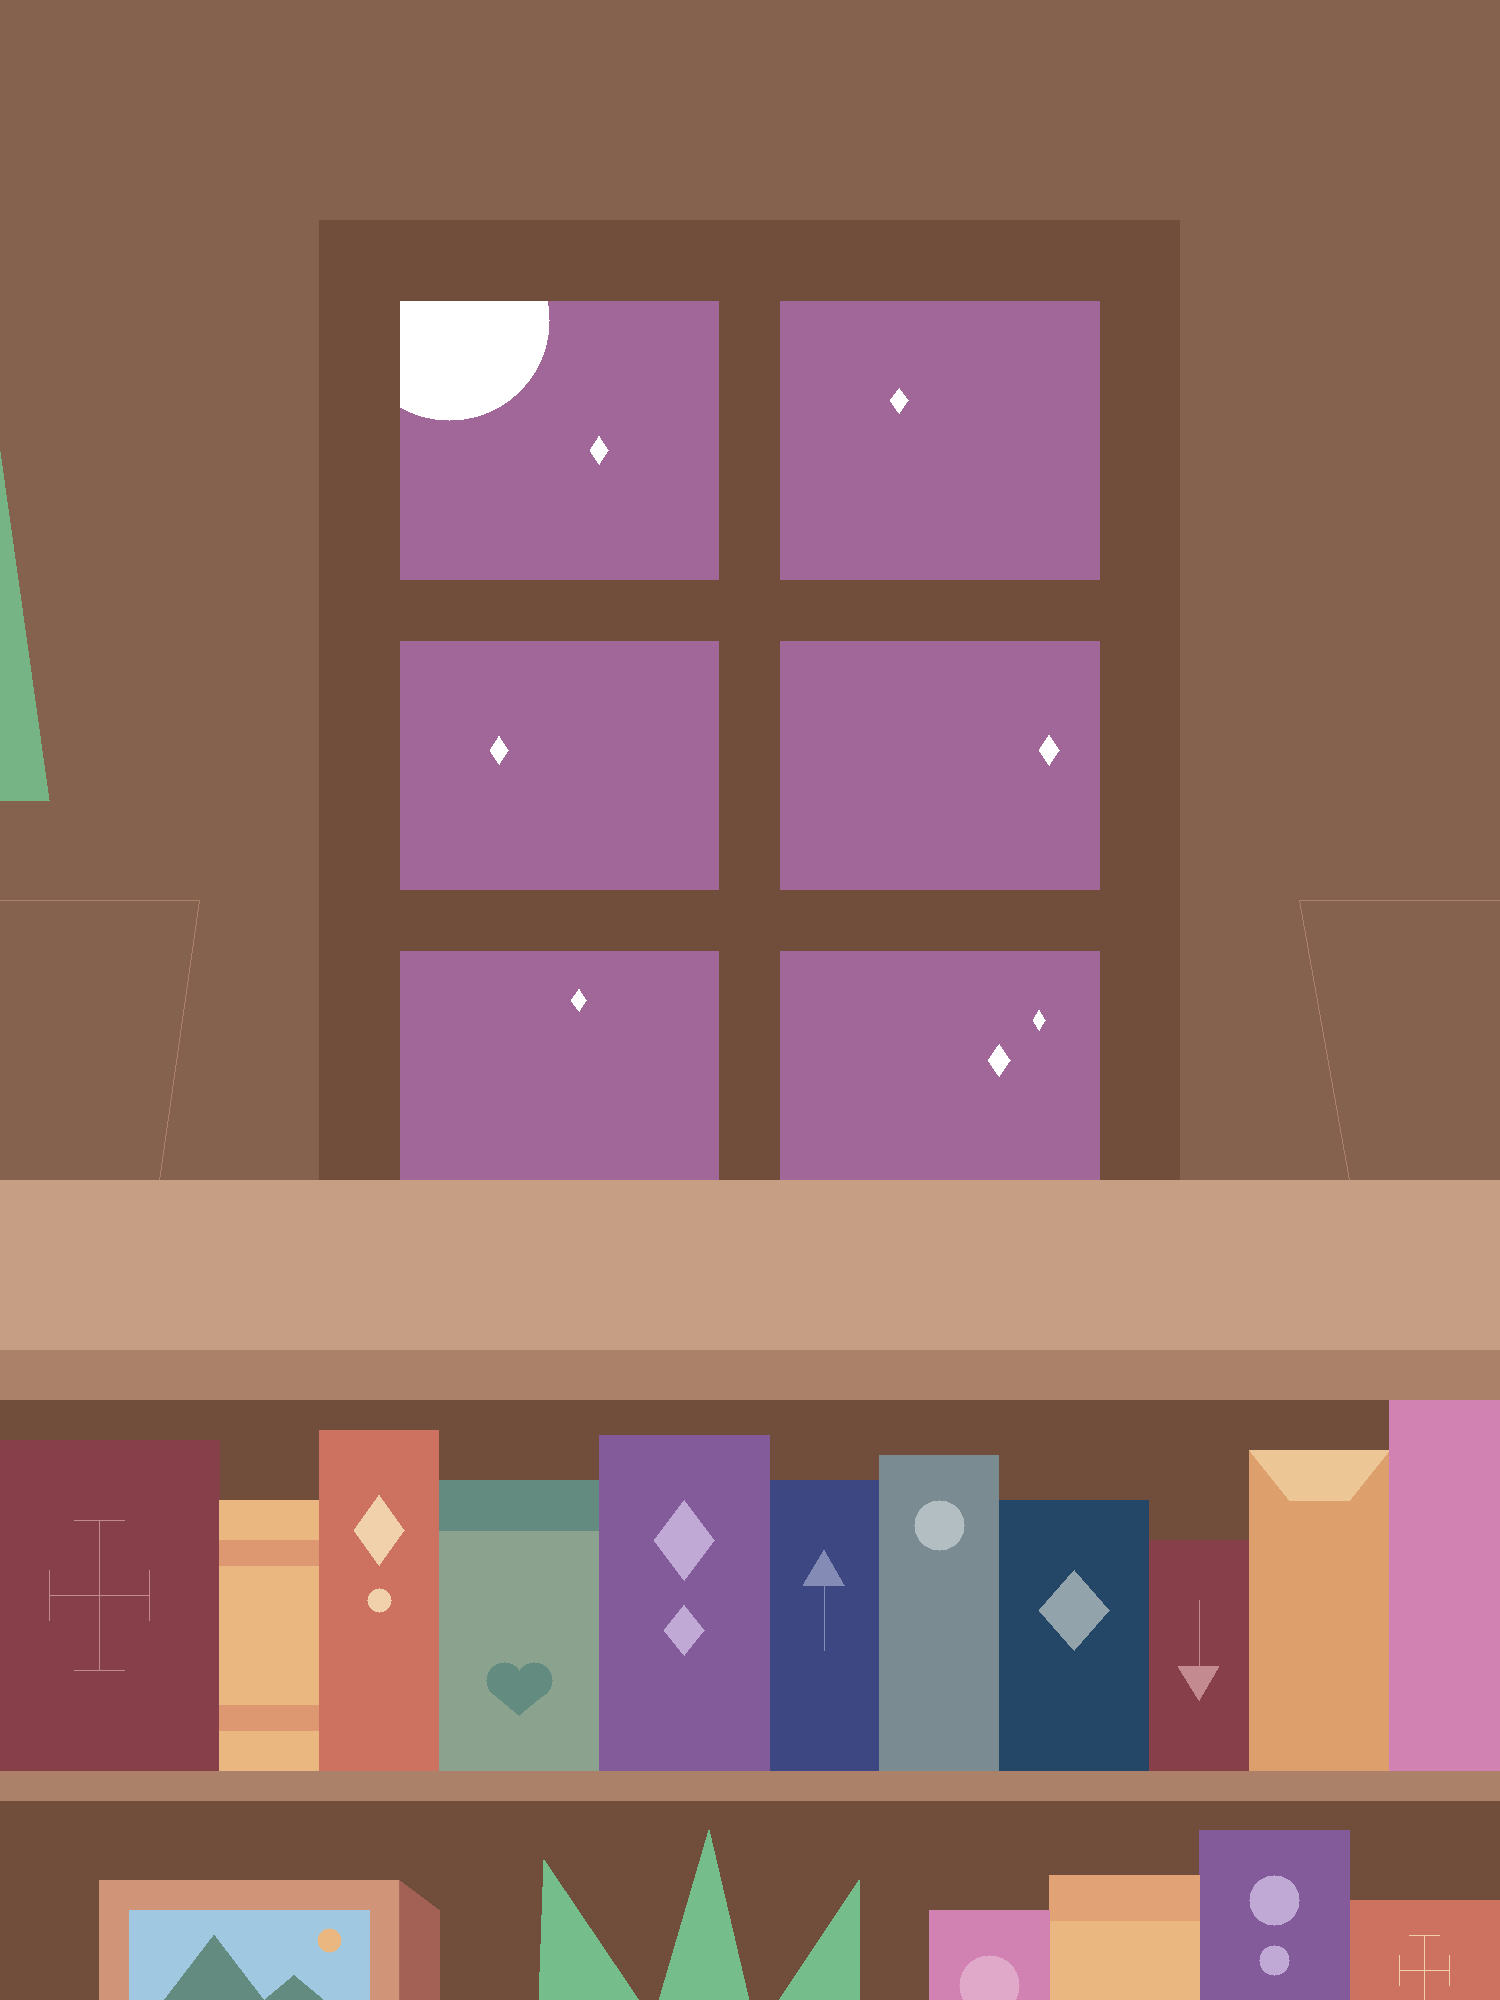
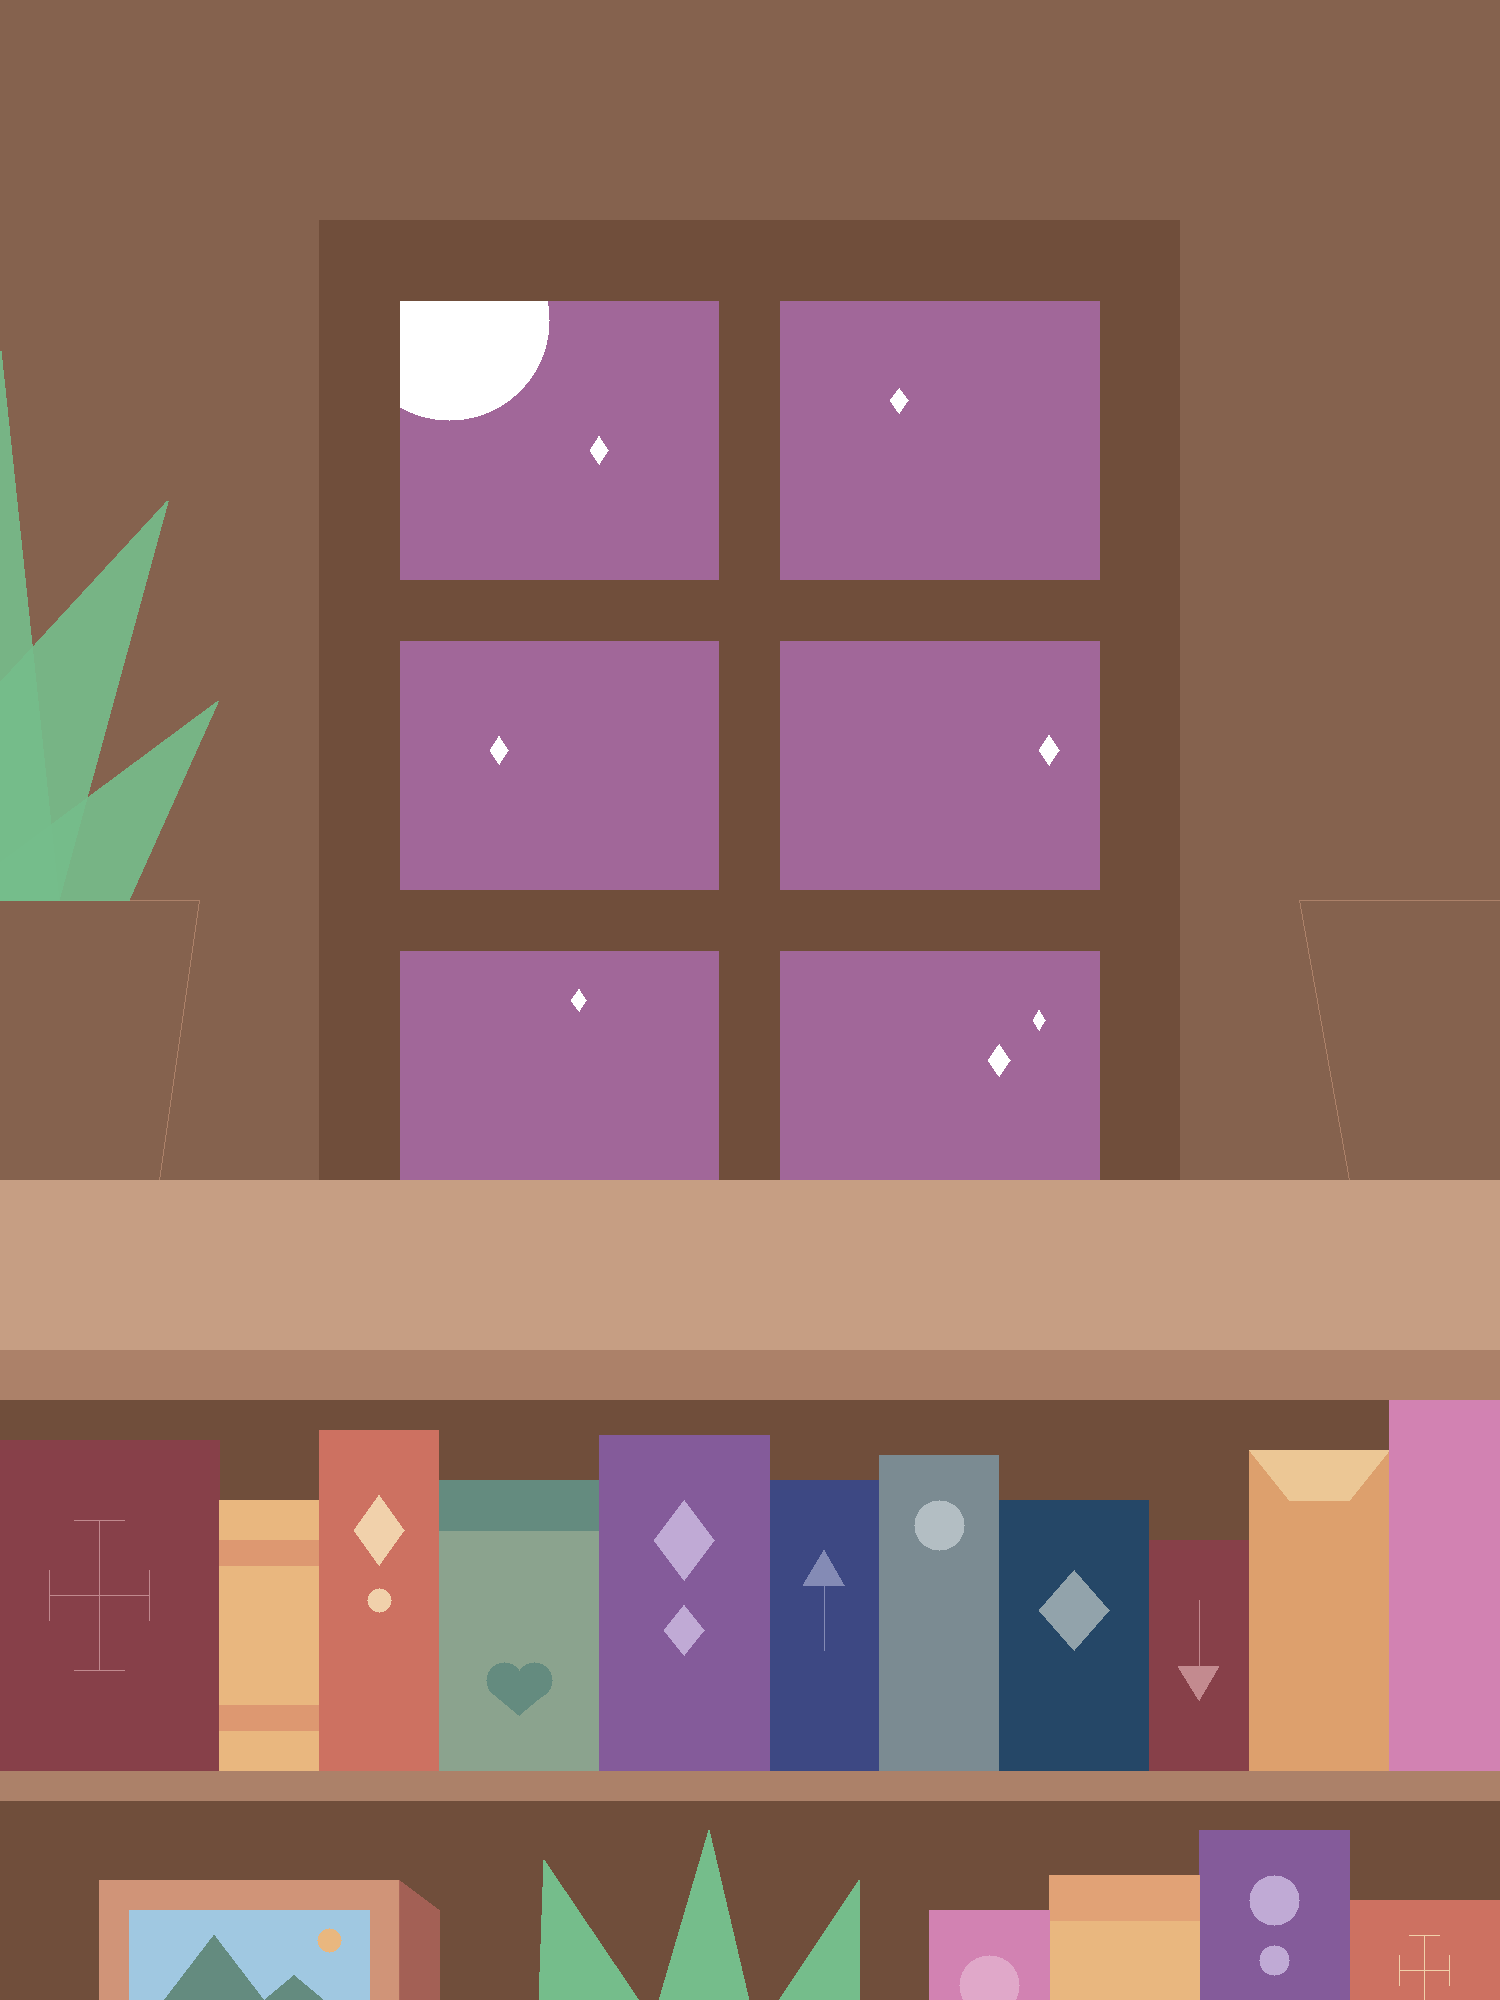
Added leaves to left plant plot

Changed region(s): [[0.0, 0.186, 0.1227, 0.465], [0.1227, 0.341, 0.1533, 0.372]]

diff --git a/main.cpp b/main.cpp
@@ -60,11 +60,12 @@ int main()
 	image.line(0, 1100,	200, 1100, 0.6745, 0.5059, 0.4118);
 	image.line(0, 820, 160, 820, 0.6745, 0.5059, 0.4118);
 
-	// Leaves
-	image.filledtriangle_blend(0, 1550, 50, 1200, 0, 1200, 0.9, 0.459, 0.741, 0.545);
+	// Left Plant Leaves
+	image.filledtriangle_blend(0, 1650, 60, 1100, 0, 1100, 0.9, 0.459, 0.741, 0.545);
+	image.filledtriangle_blend(-200, 1100, 170, 1500, 60, 1100, 0.9, 0.459, 0.741, 0.545);
+	image.filledtriangle_blend(-50, 1100, 220, 1300, 130, 1100, 0.9, 0.459, 0.741, 0.545);
 
-
-	// Right Plant
+	// Right Plant Pot
 	image.line(1300, 1100, 1350, 820, 0.6745, 0.5059, 0.4118);
 	image.line(1300, 1100, 1500, 1100, 0.6745, 0.5059, 0.4118);
 	image.line(1300, 820, 1500, 820, 0.6745, 0.5059, 0.4118);
